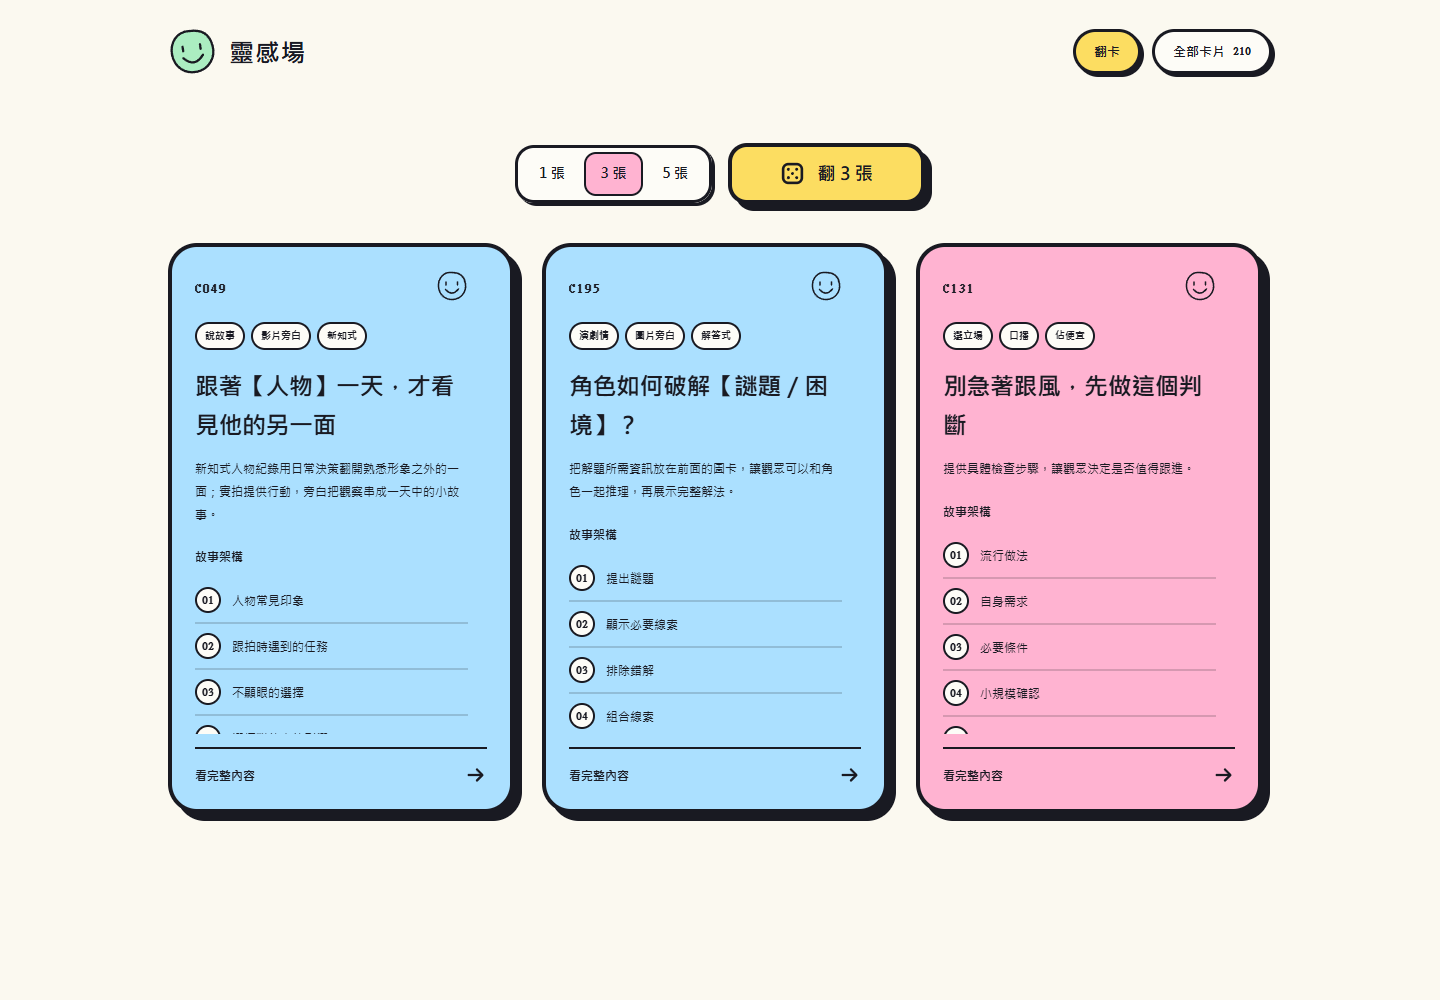
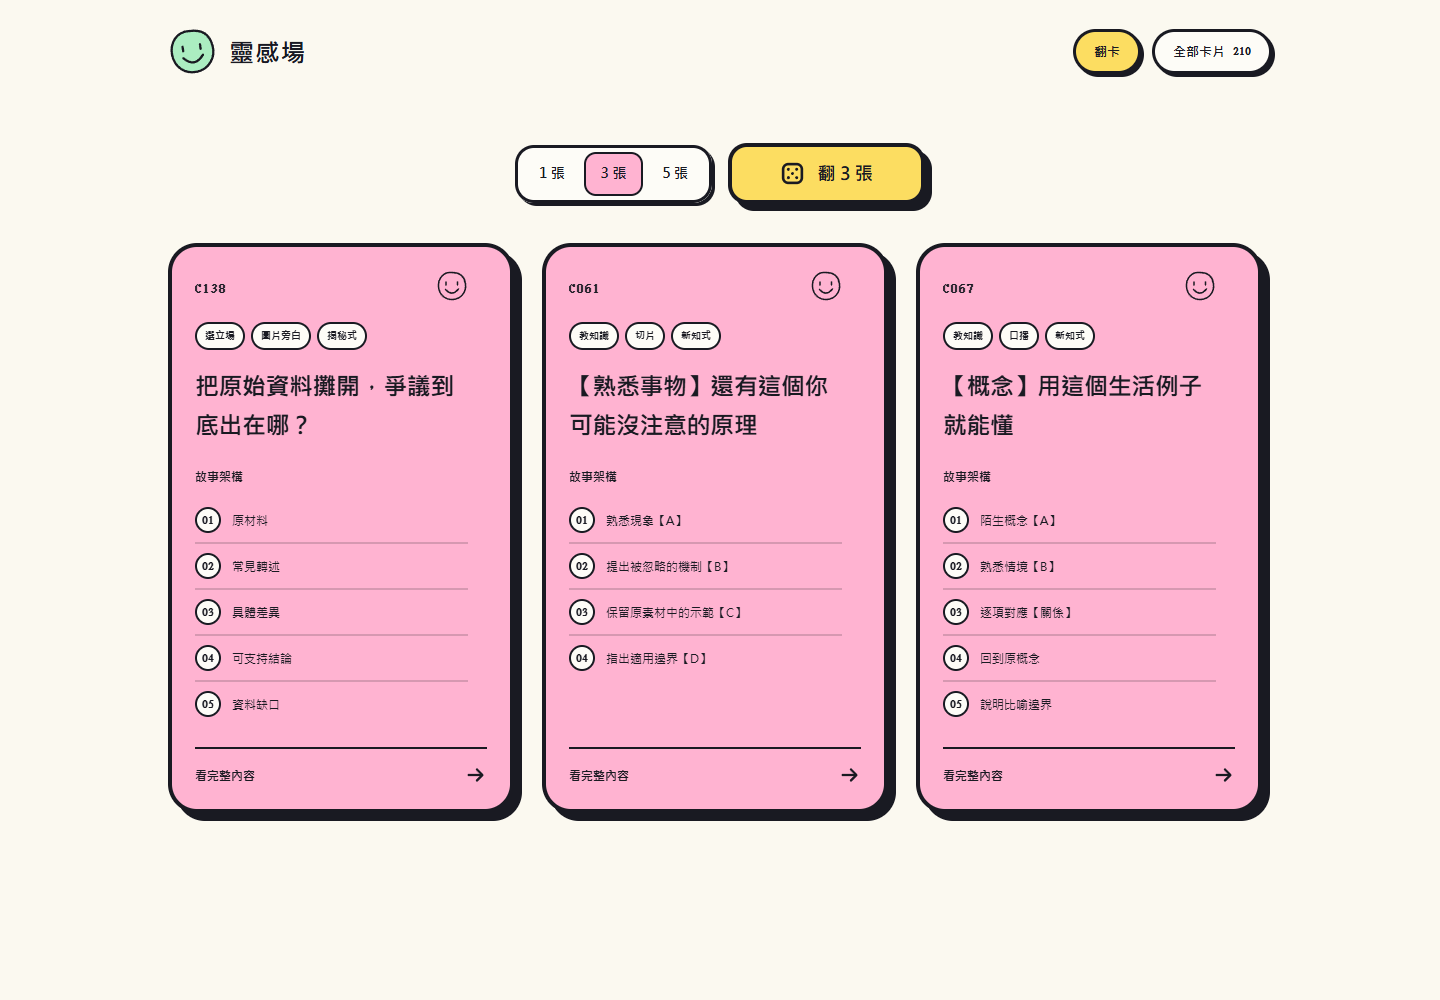
Keep draw cards focused on titles and story frameworks

diff --git a/app.js b/app.js
@@ -69,7 +69,7 @@
       article.className = 'inspiration-card card-' + themeColor(card) + (article.classList.contains('is-flipping') ? ' is-flipping' : '');
       article.dataset.cardId = card.id;
       article.setAttribute('aria-label',card.id + ' ' + card.template);
-      $('.card-content',article).innerHTML = '<div class="draw-card-scroll" tabindex="0" role="region" aria-label="題材與故事架構"><div class="card-meta"><span class="card-code">' + card.id + '</span><span class="mini-face" aria-hidden="true">' + icon('smile') + '</span></div>' + tags(card) + '<h2 class="draw-card-title">' + escape(card.template) + '</h2><p class="card-concept">' + escape(card.concept) + '</p><div class="section-label">故事架構</div>' + structure(card) + '</div><a class="card-detail-link" href="#card/' + card.id + '" data-open-card="' + card.id + '">看完整內容 ' + icon('arrow') + '</a>';
+      $('.card-content',article).innerHTML = '<div class="draw-card-scroll" tabindex="0" role="region" aria-label="題材與故事架構"><div class="card-meta"><span class="card-code">' + card.id + '</span><span class="mini-face" aria-hidden="true">' + icon('smile') + '</span></div>' + tags(card) + '<h2 class="draw-card-title">' + escape(card.template) + '</h2><div class="section-label">故事架構</div>' + structure(card) + '</div><a class="card-detail-link" href="#card/' + card.id + '" data-open-card="' + card.id + '">看完整內容 ' + icon('arrow') + '</a>';
     });
   }
   function draw() {

diff --git a/index.html b/index.html
@@ -6,10 +6,10 @@
   <meta name="theme-color" content="#faf8ee">
   <meta name="description" content="不知道下一支短影音拍什麼？隨機翻一張靈感卡，從210種架構中找到開場、故事走向與拍攝點子。">
   <title>靈感場｜翻一張，想到下一支！</title>
-  <link rel="icon" href="assets/favicon.svg?v=batch-2" type="image/svg+xml">
-  <link rel="stylesheet" href="styles.css?v=batch-2">
+  <link rel="icon" href="assets/favicon.svg?v=batch-3" type="image/svg+xml">
+  <link rel="stylesheet" href="styles.css?v=batch-3">
   <script src="data/catalog.js" defer></script>
-  <script src="app.js?v=batch-2" defer></script>
+  <script src="app.js?v=batch-3" defer></script>
 </head>
 <body>
 <a class="skip-link" href="#main">跳到主要內容</a>

diff --git a/PRODUCT.md b/PRODUCT.md
@@ -15,7 +15,7 @@ product
 ## Core Flow
 
 1. 首頁選擇 1、3、5 張，按「翻一張」或對應張數的翻卡按鈕。
-2. 同一張卡原位翻轉，直接列出題材、概念與故事步驟；同批不重複，下一批排除上一批。控制列固定，連抽不自動捲動。
+2. 同一張卡原位翻轉，只列出題材與故事步驟；同批不重複，下一批排除上一批。控制列固定，連抽不自動捲動。
 3. 「全部卡片」一次列出 210 個項目，支援關鍵字與主題篩選。
 4. 點進卡片，閱讀完整架構、兩個虛構示例與拍攝提醒，按一下複製架構。
 5. 返回時保留整批抽卡結果，或列表的篩選及原來位置。

diff --git a/DESIGN.md b/DESIGN.md
@@ -17,7 +17,7 @@
 
 ## 兩個主頁面
 
-首頁：置中的 1／3／5 張選項和黃色翻卡按鈕，下方是卡片。沒有介紹文案。卡片保持固定高度，翻開後直接列出主題、題材、概念和完整故事步驟。控制列置頂，抽卡不自動捲動畫面。
+首頁：置中的 1／3／5 張選項和黃色翻卡按鈕，下方是卡片。沒有介紹文案。卡片保持固定高度，翻開後只列出主題、題材和完整故事步驟。控制列置頂，抽卡不自動捲動畫面。
 
 全部卡片：一頁展示 210 張卡，桌機三欄、平板兩欄、手機一欄。保留搜尋和一個主題下拉選單。整張卡就是詳情連結。
 
